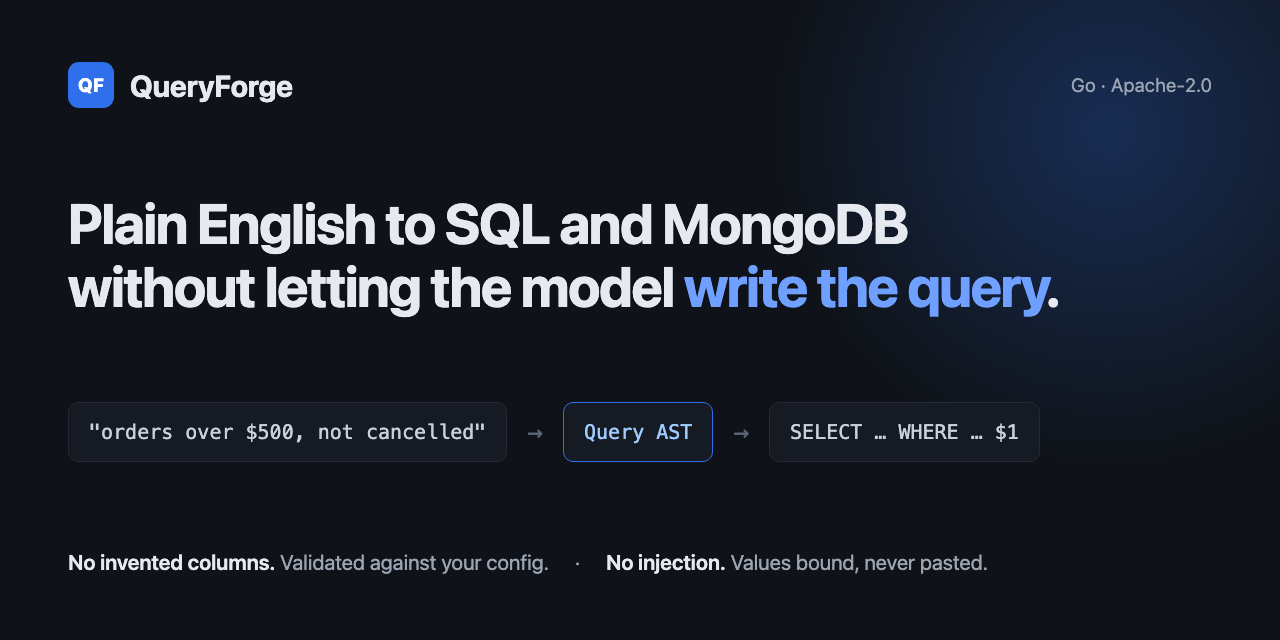
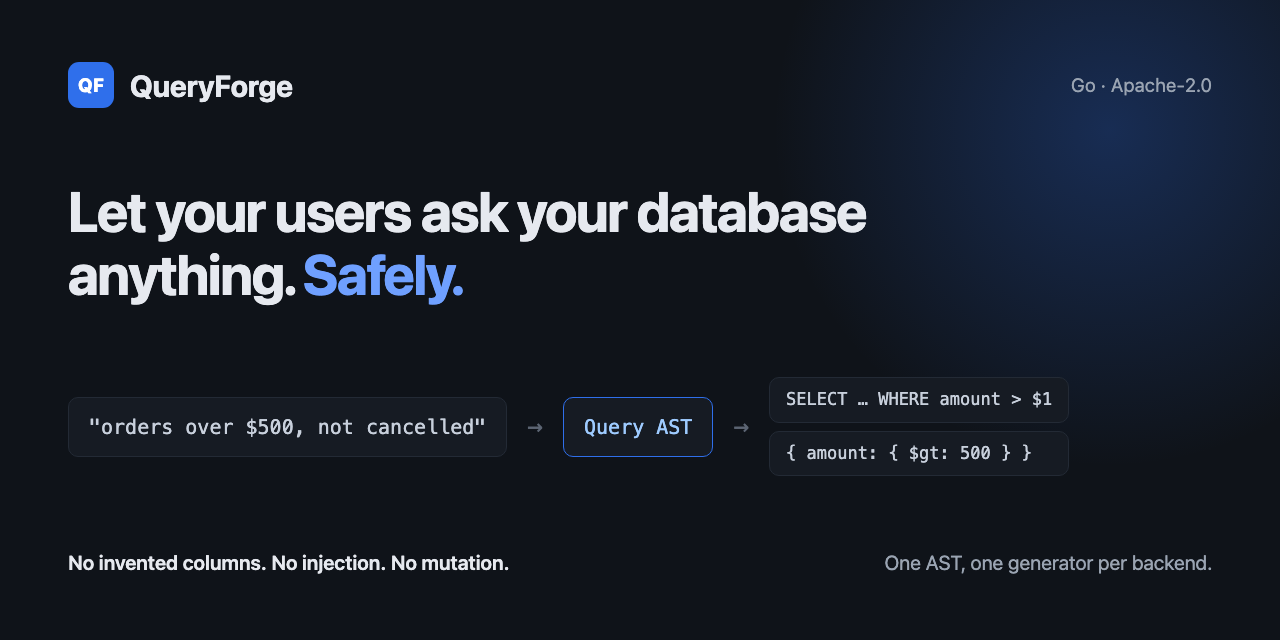
Reposition: any backend, not just SQL and MongoDB
The tagline enumerated the two Phase 1 backends, which undersold the
design -- the AST is backend-agnostic and ast.go has said so since the
first commit. README, docs landing page, meta tags, repo description and
the preview card now lead with what the library lets you do, with the
mechanism as the credibility line right underneath: one AST, one
generator per backend, SQL and Mongo shipping today.

The card's last stage now stacks the SQL and the Mongo output so the
claim is shown being kept rather than only asserted.

diff --git a/docs/index.html b/docs/index.html
@@ -3,15 +3,15 @@
 <head>
 <meta charset="utf-8">
 <meta name="viewport" content="width=device-width, initial-scale=1">
-<title>QueryForge — natural language to SQL and MongoDB</title>
-<meta name="description" content="A config-driven Go library that compiles natural language into database queries through a validated Query AST. Read-only by design, no hallucinated fields, no SQL injection.">
+<title>QueryForge — let your users ask your database anything, safely</title>
+<meta name="description" content="A config-driven Go library that turns plain English into a query for whatever database you run, through a validated Query AST. Read-only by design, no hallucinated fields, no SQL injection.">
 <!-- Link preview. Without these a share of this URL renders as an untitled grey
      box; og.png is the card that ships alongside this page. The absolute URL is
      required — crawlers do not resolve relative paths. -->
 <meta property="og:type" content="website">
 <meta property="og:site_name" content="QueryForge">
-<meta property="og:title" content="QueryForge — plain English to SQL and MongoDB">
-<meta property="og:description" content="The model never writes the query. It fills in a typed AST constrained to your config, and deterministic Go compiles that to SQL or Mongo. No invented columns, no injection.">
+<meta property="og:title" content="QueryForge — let your users ask your database anything, safely">
+<meta property="og:description" content="The model never writes the query. It fills in a typed AST your config constrains, and deterministic Go compiles that to whatever database you run. No invented columns, no injection.">
 <meta property="og:url" content="https://awsaman-ai.github.io/queryforge/">
 <meta property="og:image" content="https://awsaman-ai.github.io/queryforge/og.png">
 <meta property="og:image:width" content="1280">
@@ -171,7 +171,10 @@
 
   <div class="hero">
     <h1>QueryForge</h1>
-    <p class="lead">Turn plain English into SQL and MongoDB queries — <strong>without letting a language model write the query</strong>.</p>
+    <p class="lead">Let your users ask your database anything — in their own words, <strong>safely</strong>.</p>
+    <p class="lead" style="font-size:1rem;margin-top:-.75rem">The model never writes the query. It fills in a typed
+      <a href="config.html#ast">Query AST</a> your config constrains, and deterministic Go compiles that to whatever
+      database you run — Postgres SQL and MongoDB today, and a new backend is a generator, not a rewrite.</p>
     <div class="badges">
       <a href="https://github.com/awsaman-ai/queryforge"><img alt="GitHub" src="https://img.shields.io/badge/GitHub-repo-181717?logo=github"></a>
       <a href="https://pkg.go.dev/github.com/awsaman-ai/queryforge"><img alt="Go Reference" src="https://pkg.go.dev/badge/github.com/awsaman-ai/queryforge.svg"></a>

diff --git a/README.md b/README.md
@@ -5,7 +5,9 @@
 [![License](https://img.shields.io/badge/license-Apache%202.0-blue.svg)](LICENSE)
 [![Go 1.25+](https://img.shields.io/badge/go-1.25%2B-00ADD8.svg)](go.mod)
 
-**Turn plain English into SQL and MongoDB queries — without letting a language model write the query.**
+**Let your users ask your database anything — in their own words, safely.**
+
+The model never writes the query. It fills in a typed **Query AST** your config constrains, and deterministic Go compiles that to whatever database you run. Postgres SQL and MongoDB ship today; a new backend is a generator, not a rewrite.
 
 📖 [Docs](https://awsaman-ai.github.io/queryforge/) · 🛠 [Build a config in your browser](https://awsaman-ai.github.io/queryforge/config-builder.html) — no install, nothing leaves the page
 
